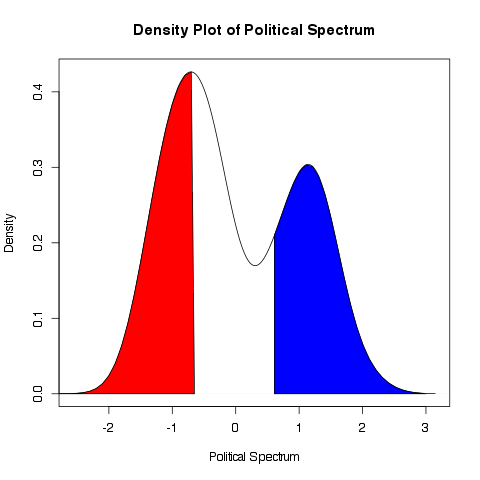
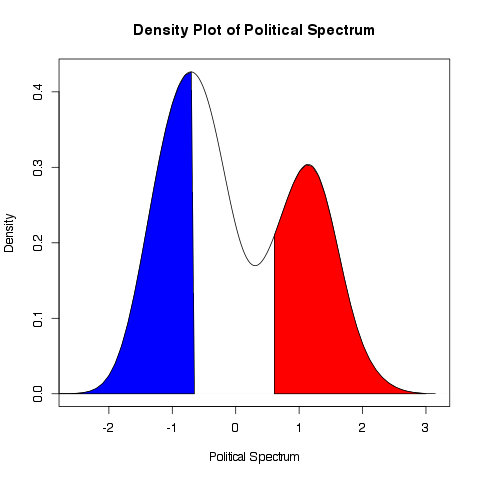
Evidently I don't know left vs right.

Changed region(s): [[0.5625, 0.3438, 0.875, 0.8438], [0.1875, 0.1562, 0.4062, 0.8438]]

diff --git a/political-nlp-analysis/src/main/java/com/caseystella/preprocessor/DataPreprocessor.java b/political-nlp-analysis/src/main/java/com/caseystella/preprocessor/DataPreprocessor.java
@@ -1,18 +1,12 @@
 package com.caseystella.preprocessor;
 
-import java.io.BufferedReader;
 import java.io.File;
-import java.io.FileNotFoundException;
-import java.io.FileReader;
 import java.io.IOException;
 import java.io.PrintWriter;
-import java.io.Reader;
 import java.util.ArrayList;
 import java.util.Arrays;
 import java.util.EnumMap;
-import java.util.HashSet;
 import java.util.List;
-import java.util.Set;
 
 import org.apache.commons.cli.CommandLine;
 import org.apache.commons.cli.CommandLineParser;
@@ -20,13 +14,7 @@ import org.apache.commons.cli.OptionBuilder;
 import org.apache.commons.cli.Options;
 import org.apache.commons.cli.ParseException;
 import org.apache.commons.cli.PosixParser;
-import org.apache.lucene.analysis.Analyzer;
-import org.apache.lucene.analysis.LowerCaseTokenizer;
-import org.apache.lucene.analysis.PorterStemFilter;
-import org.apache.lucene.analysis.StopFilter;
-import org.apache.lucene.analysis.TokenStream;
 
-import com.google.common.base.CharMatcher;
 import com.google.common.base.Charsets;
 import com.google.common.base.Joiner;
 import com.google.common.base.Splitter;
@@ -40,21 +28,12 @@ public class DataPreprocessor
 {
 	private static enum PoliticalOrientation
 	{
-		CONSERVATIVE((byte)0x0)
-	   ,MODERATE((byte)0x1)
-	   ,LIBERAL((byte)0x2)
+		CONSERVATIVE
+	   ,MODERATE
+	   ,LIBERAL
 	   ;
 	   
-	   private byte code;
-	   
-	   private PoliticalOrientation(byte code)
-	   {
-		   this.code = code;
-	   }
-	   public byte getCode()
-	   {
-		   return code;
-	   }
+	 
 	}
 	
 	private static class DocumentDescriptor
@@ -95,23 +74,23 @@ public class DataPreprocessor
 		
 	}
 	
-	private static class Preprocessor extends Analyzer
-	{
-		Set<String> stopwords = new HashSet<String>();
-		public Preprocessor(File stopwordsFile) throws IOException
-		{
-			for(String stopword : Files.readLines(stopwordsFile, Charsets.US_ASCII))
-			{
-				stopwords.add(stopword.toLowerCase());
-			}
-		}
-		
-		@Override
-		public TokenStream tokenStream(String arg0, Reader reader) {
-			
-			return new PorterStemFilter(new StopFilter(true, new LowerCaseTokenizer(reader), stopwords) );
-		}
-	}
+//	private static class Preprocessor extends Analyzer
+//	{
+//		Set<String> stopwords = new HashSet<String>();
+//		public Preprocessor(File stopwordsFile) throws IOException
+//		{
+//			for(String stopword : Files.readLines(stopwordsFile, Charsets.US_ASCII))
+//			{
+//				stopwords.add(stopword.toLowerCase());
+//			}
+//		}
+//		
+//		@Override
+//		public TokenStream tokenStream(String arg0, Reader reader) {
+//			
+//			return new PorterStemFilter(new StopFilter(true, new LowerCaseTokenizer(reader), stopwords) );
+//		}
+//	}
 	
 	
 	private static BiMap<String, Double> getIdealPointsMap(File idealPointsFile) throws IOException
@@ -155,8 +134,8 @@ public class DataPreprocessor
 	
 	private static EnumMap<PoliticalOrientation, List<DocumentDescriptor>> partitionDataDirectory( File dataDirectory
 																								, BiMap<String, Double> idealPointMap
-																								, double conservativeRightBoundary
-																								, double liberalLeftBoundary
+																								, double conservativeLeftBoundary
+																								, double liberalRightBoundary
 																								)
 	{
 		EnumMap<PoliticalOrientation, List<DocumentDescriptor>> partitions 
@@ -184,17 +163,17 @@ public class DataPreprocessor
 			
 			double idealPoint = idealPointMap.get(lastName);
 			
-			if(idealPoint < conservativeRightBoundary)
+			if(idealPoint < liberalRightBoundary)
 			{
-				partitions.get(PoliticalOrientation.CONSERVATIVE).add(descriptor);
+				partitions.get(PoliticalOrientation.LIBERAL).add(descriptor);
 			}
-			else if(idealPoint < liberalLeftBoundary)
+			else if(idealPoint < conservativeLeftBoundary)
 			{
 				partitions.get(PoliticalOrientation.MODERATE).add(descriptor);
 			}
 			else
 			{
-				partitions.get(PoliticalOrientation.LIBERAL).add(descriptor);
+				partitions.get(PoliticalOrientation.CONSERVATIVE).add(descriptor);
 			}
 		}
 		
@@ -203,29 +182,47 @@ public class DataPreprocessor
 	}
 	
 	
-	private static void dumpDocument( PrintWriter pw
-									, DocumentDescriptor descriptor
-									, Analyzer preprocessor
-									, PoliticalOrientation orientation
-									) throws FileNotFoundException
+	private static void dumpDocument( final PrintWriter pw
+									, final DocumentDescriptor descriptor
+									) throws IOException
 	{
-		List<String> tokens = LuceneUtil.tokenize(preprocessor, "", new BufferedReader(new FileReader(descriptor.documentLocation)));
-		for(String token : tokens)
-		{
-			pw.println(Joiner.on(" ").join( descriptor.documentId, token));
-		}
+		pw.println(Joiner.on("\t")
+						 .join( descriptor.documentId
+							  , Files.readLines( descriptor.documentLocation
+									  		   , Charsets.US_ASCII
+									  		   , new LineProcessor<String>()
+									  		   {
+								  					private StringBuffer buffer = new StringBuffer();
+								  					
+								  					@Override
+								  					public String getResult() {
+								  						return buffer.toString().trim();
+								  					}
+								  					@Override
+								  					public boolean processLine(String line)
+								  						throws IOException 
+								  					{
+								  						String normalizedString = line.replaceAll("\\s+", " ").trim();
+								  						buffer.append(normalizedString + " ");
+								  						return true;
+								  					}
+									  		   }
+									  		   )
+							  )
+				  );
+
 	}
+	
 	private static void dumpData( EnumMap<PoliticalOrientation, List<DocumentDescriptor>> partitions
-								, Analyzer preprocessor 
 								, File outputDir
-								) throws FileNotFoundException
+								) throws IOException
 	{
 		for(PoliticalOrientation orientation : PoliticalOrientation.values())
 		{
 			PrintWriter pw = new PrintWriter(new File(outputDir, orientation.toString()));
 			for(DocumentDescriptor descriptor : partitions.get(orientation))
 			{
-				dumpDocument(pw, descriptor, preprocessor, orientation);
+				dumpDocument(pw, descriptor);
 			}
 			pw.close();
 		}
@@ -256,20 +253,20 @@ public class DataPreprocessor
 							 );
 		}
 		{
-			options.addOption( OptionBuilder.withArgName("conservative_right_boundary")
+			options.addOption( OptionBuilder.withArgName("conservative_left_boundary")
 											.hasArg()
-											.withDescription("The conservative right boundary")
+											.withDescription("The conservative left boundary")
 											.isRequired()
-											.withLongOpt("conservative-right-boundary")
+											.withLongOpt("conservative-left-boundary")
 											.create("c")
 							 );
 		}
 		{
-			options.addOption( OptionBuilder.withArgName("liberal_left_boundary")
+			options.addOption( OptionBuilder.withArgName("liberal_right_boundary")
 											.hasArg()
-											.withDescription("The liberal left boundary")
+											.withDescription("The liberal right boundary")
 											.isRequired()
-											.withLongOpt("liberal-left-boundary")
+											.withLongOpt("liberal-right-boundary")
 											.create("l")
 							 );
 		}
@@ -282,15 +279,7 @@ public class DataPreprocessor
 											.create("p")
 							 );
 		}
-		{
-			options.addOption( OptionBuilder.withArgName("stopword_file")
-											.hasArg()
-											.withDescription("The stopword file")
-											.isRequired()
-											.withLongOpt("stopword-file")
-											.create("s")
-							 );
-		}
+		
 		
 		// parse the command line arguments
 	    CommandLine line = parser.parse( options, argv );
@@ -298,17 +287,17 @@ public class DataPreprocessor
 	    File inputDir = new File(line.getOptionValue("i"));
 	    File outputDir = new File(line.getOptionValue("o"));
 	    File idealPointsFile = new File(line.getOptionValue("p"));
-	    File stopwordFile = new File(line.getOptionValue("s"));
+	   
 	    
-	    double conservativeRightBoundary = Double.parseDouble(line.getOptionValue("c"));
+	    double conservativeLeftBoundary = Double.parseDouble(line.getOptionValue("c"));
 
-	    double liberalLeftBoundary = Double.parseDouble(line.getOptionValue("l"));
+	    double liberalRightBoundary = Double.parseDouble(line.getOptionValue("l"));
 	   
 	    BiMap<String, Double> idealPointsMap = getIdealPointsMap(idealPointsFile);
 	    EnumMap<PoliticalOrientation, List<DocumentDescriptor>> partitions
-	    	= partitionDataDirectory(inputDir, idealPointsMap, conservativeRightBoundary, liberalLeftBoundary);
+	    	= partitionDataDirectory(inputDir, idealPointsMap, liberalRightBoundary, conservativeLeftBoundary );
 	    
-	    dumpData(partitions, new Preprocessor(stopwordFile), outputDir);
+	    dumpData(partitions, outputDir);
 	    
 	}
 }
